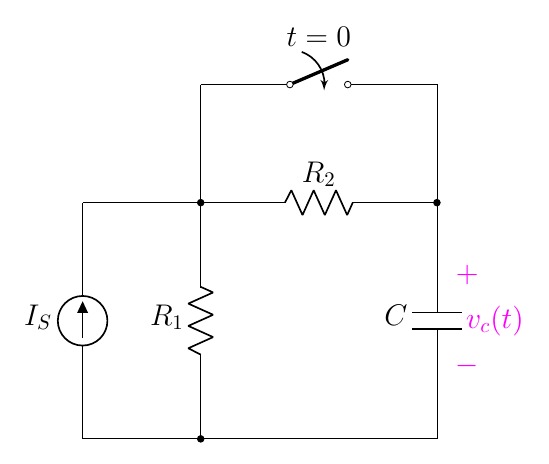
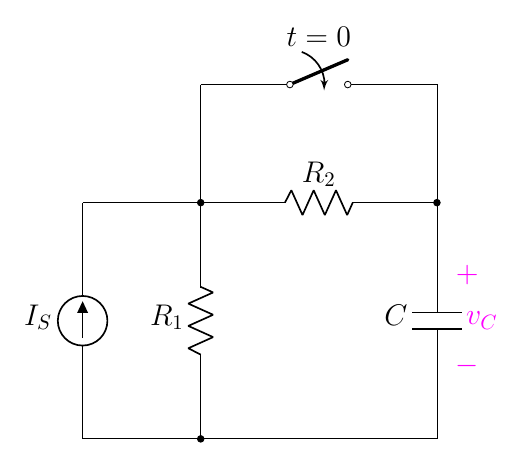
7.40b

diff --git a/2.4 Driven RC/7.5 Driven RC/7.40b(new).tex b/2.4 Driven RC/7.5 Driven RC/7.40b(new).tex
@@ -28,7 +28,7 @@
     %%% find %%%
     \node at (4,6.8)[]{$t=0$};
     \draw[magenta](6.2,1)
-        to[open, v>=$v_c(t)$] ++(0,2);
+        to[open, v>=$v_C$] ++(0,2);
 
 \end{circuitikz}
 \end{document}
